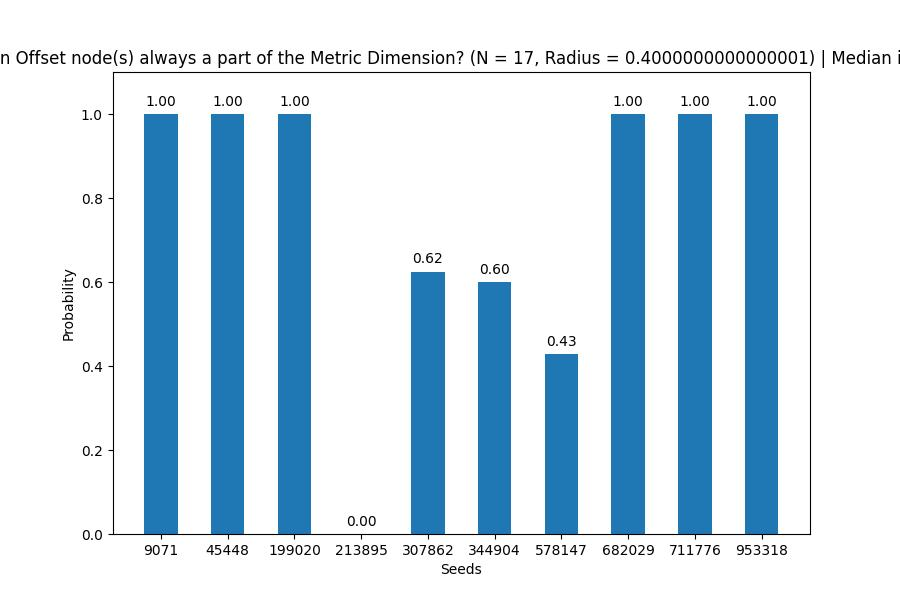
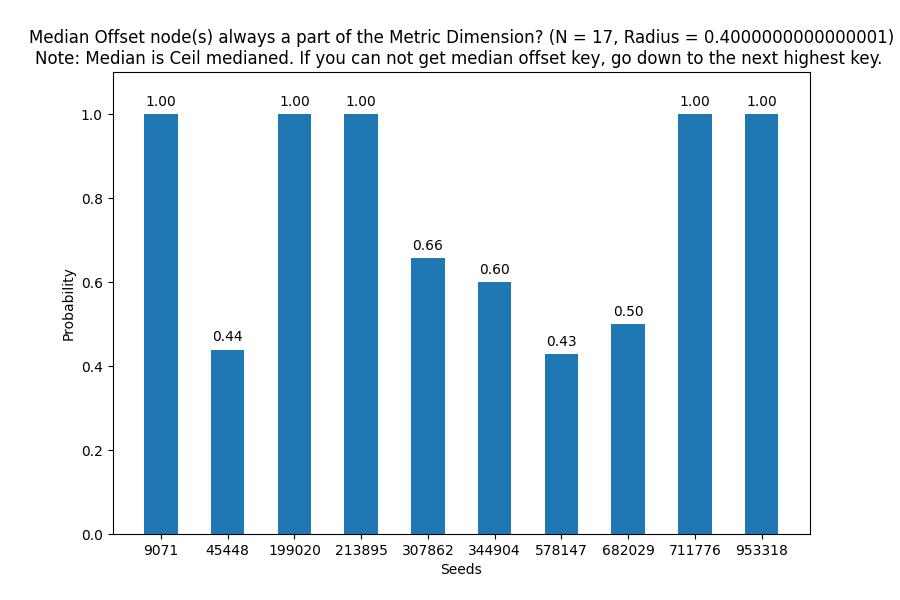
feat: Add offset types data and code.

diff --git a/experiments/offset.py b/experiments/offset.py
@@ -97,82 +97,120 @@ import multilateration as geo
 import numpy as np
 ### Create Experiment of x-axis = seeds (lowest to highest sorted) | y-axis = true/false (1/0) in Bruteforce Metric Dimension.
 ### IMPORTANT ###
-nodes = 10
-radius = 0.9
-# desired_offset = 0
-# plt.title(f'A column of the Lowest Offset always a part of the Metric Dimension? (N = {nodes}, R = {radius})')
-all_r = list(np.arange(0.02, 0.14, 0.01)) + \
-        list(np.arange(0.2, np.sqrt(2)+0.1, 0.1))
-all_seeds = list(range(3, 23))
-for n, r in zip(all_seeds, all_r):
-    nodes = n
-    radius = r
-    seed_list = sorted(decode.get_seeds(file_name='comeback_1_10.list', nodes=n))
-    probability_list = []
+# nodes = 10
+# radius = 0.9
+# # desired_offset = 0
+# # plt.title(f'A column of the Lowest Offset always a part of the Metric Dimension? (N = {nodes}, R = {radius})')
+# all_r = list(np.arange(0.02, 0.14, 0.01)) + \
+#         list(np.arange(0.2, np.sqrt(2)+0.1, 0.1))
+# all_seeds = list(range(3, 23))
+# total_offset_probability = []
+# for n, r in zip(all_seeds, all_r):
+#     nodes = n
+#     radius = r
+#     seed_list = sorted(decode.get_seeds(file_name='comeback_1_10.list', nodes=n))
+#     probability_list = []
     
-    # Round due to median being like 5.5
-    round = False
-    for seed in seed_list:
-        G = nx.random_geometric_graph(n=nodes, radius=radius, seed=int(seed))
-        r_sets = geo.bruteForce(G, numSets=-1)
-        offset_dict = get_close_to_unique_rows_offset(analysis.get_distance_matrix(G=G, display=False))
+#     # Round due to median being like 5.5
+#     round = False
+#     for seed in seed_list:
+#         G = nx.random_geometric_graph(n=nodes, radius=radius, seed=int(seed))
+#         r_sets = geo.bruteForce(G, numSets=-1)
+#         offset_dict = get_close_to_unique_rows_offset(analysis.get_distance_matrix(G=G, display=False))
         
-        ### IMPORTANT: OFFSET SETTINGS TESTING ###   
-        # print(offset_dict)
-        desired_offset_key = get_median_key(offset_dict) ## CHANGE IF GETTING DIFFERENT OFFSET
-        if (is_float(desired_offset_key) != False) or (desired_offset_key not in offset_dict.keys()):
-            round = True
-            import math
-            desired_offset_key = int(math.ceil(desired_offset_key))
-            if desired_offset_key not in offset_dict.keys():
-                for key in offset_dict.keys():
-                    if key > desired_offset_key:
-                        desired_offset_key = key
-                        break
-            offset_items = offset_dict[desired_offset_key]
-        else:
-            offset_items = offset_dict[desired_offset_key]
+#         ### IMPORTANT: OFFSET SETTINGS TESTING ###   
+#         # print(offset_dict)
+#         desired_offset_key = get_median_key(offset_dict) ## CHANGE IF GETTING DIFFERENT OFFSET
+#         if (is_float(desired_offset_key) != False) or (desired_offset_key not in offset_dict.keys()):
+#             round = True
+#             import math
+#             desired_offset_key = int(math.ceil(desired_offset_key))
+#             # # Ceil Setting ##
+#             # if desired_offset_key not in offset_dict.keys():
+#             #     for key in offset_dict.keys():
+#             #         if key > desired_offset_key:
+#             #             desired_offset_key = key
+#             #             break
+            
+#             # Floor Setting ##
+#             if desired_offset_key not in offset_dict.keys():
+#                 for key in reversed(offset_dict.keys()):
+#                     if key < desired_offset_key:
+#                         desired_offset_key = key
+#                         break
 
-        offset_found = 0
-        for set_ in r_sets:
-            for item in offset_items:
-                if item in set_:
-                    offset_found += 1
-                    break
-        probability_list.append(offset_found / len(r_sets))
+#             offset_items = offset_dict[desired_offset_key]
+#         else:
+#             offset_items = offset_dict[desired_offset_key]
 
-    ### USING BAR CHARTS ###
-    plt.figure(figsize=(9, 6))
-    plt.xlabel('Seeds')
-    plt.ylabel('Probability')
-    ### IMPORTANT: CHANGE TITLE ###
-    if round == True:
-        plt.title(f'Median Offset node(s) always a part of the Metric Dimension? (N = {nodes}, Radius = {radius}) | Median is Ceiled.')
-    else: 
-        plt.title(f'Median Offset node(s) always a part of the Metric Dimension? (N = {nodes}, Radius = {radius})')
-    plt.ylim(0, 1.1)  # Set y-axis limits to 0 and 1
-    plt.xticks(range(len(seed_list)), seed_list)  # Set x-axis labels to seed names
+#         offset_found = 0
+#         for set_ in r_sets:
+#             for item in offset_items:
+#                 if item in set_:
+#                     offset_found += 1
+#                     break
+#         probability_list.append(offset_found / len(r_sets))
+#     total_offset_probability.append(sum(probability_list))
 
-    # Create bars with probability values on top
-    bars = plt.bar(range(len(seed_list)), probability_list, width=0.5)
-    for bar, value in zip(bars, probability_list):
-        plt.text(bar.get_x() + bar.get_width() / 2, value + 0.02, f'{value:.2f}', ha='center')
-    # plt.show()
+#     ### USING BAR CHARTS ###
+#     plt.figure(figsize=(9, 6))
+#     plt.xlabel('Seeds')
+#     plt.ylabel('Probability')
+#     ### IMPORTANT: CHANGE TITLE ###
+#     mode = "Floor median"
+#     if round == True:
+#         plt.title(f'Median Offset node(s) always a part of the Metric Dimension? (N = {nodes}, Radius = {radius})\nNote: Median is {mode}ed. If you can not get median offset key, go down to the next lowest key. ')
+#     else: 
+#         plt.title(f'{mode} Offset node(s) always a part of the Metric Dimension? (N = {nodes}, Radius = {radius})')
+#     plt.ylim(0, 1.1)  # Set y-axis limits to 0 and 1
+#     plt.xticks(range(len(seed_list)), seed_list)  # Set x-axis labels to seed names
 
-    ### IMPORTANT ###
-    if round == True:
-        save_dir = "/Users/evanalba/random-geometric-graphs/images/offset/median/ceil"
-    else:
-        save_dir = "/Users/evanalba/random-geometric-graphs/images/offset/median"
+#     # Create bars with probability values on top
+#     bars = plt.bar(range(len(seed_list)), probability_list, width=0.5)
+#     for bar, value in zip(bars, probability_list):
+#         plt.text(bar.get_x() + bar.get_width() / 2, value + 0.02, f'{value:.2f}', ha='center')
+#     # plt.show()
 
-    file_name = f"{nodes}_{radius}.jpg"
-    plt.savefig(f"{save_dir}/{file_name}")
+#     ### IMPORTANT ###
+#     if round == True:
+#         save_dir = "/Users/evanalba/random-geometric-graphs/images/offset/median/floor"
+#     else:
+#         save_dir = f"/Users/evanalba/random-geometric-graphs/images/offset/median"
+
+#     file_name = f"{nodes}_{radius}.jpg"
+#     plt.savefig(f"{save_dir}/{file_name}")
+
+# with open('/Users/evanalba/random-geometric-graphs/images/offset/offset_types.txt', 'a') as file:
+#     file.write(f'\n{mode}: {str(sum(total_offset_probability))}')
 
 ### USING PRINT OUT TABLE ###
 # import pandas as pd
 # data = {'Seeds': seed_list, 'Probability': probability_list}
 # df = pd.DataFrame(data)
 # print(df)
+
+### Note: sum(probability of each graph seed) / Total 190 Graphs (Each Graph Seed == 1, Graph Family = 10) (22 - 3) * 10 = 190
+## Bar Graph Compare types of offsets: highest, lowest, ceil median, floor median. ##
+probability_list = [167.2721320958702, 183.96172041994345, 184.8501585357503, 186.61811786835509]
+plt.figure(figsize=(9, 6))
+plt.xlabel('Offset Types')
+plt.ylabel('Probability')
+plt.title('Highest vs Lowest vs Ceil median vs Floor median Offset node(s) always a part of the Metric Dimension?\n Note: 192 Graphs, 19 different N graph families.')
+plt.ylim(0, 200)  # Set y-axis limits to 0 and 200
+label_list = ['Highest', 'Lowest', 'Ceil median', 'Floor median']
+plt.xticks(range(len(label_list)),  label_list)  # Set x-axis labels to seed names
+
+# Create bars with probability values on top
+bars = plt.bar(range(len(label_list)), probability_list, width=0.5, color=['blue', 'orange', 'green', 'red'])
+for bar, value in zip(bars, probability_list):
+    plt.text(bar.get_x() + bar.get_width() / 2, value + 3, f'{value:.2f}', ha='center')
+# plt.show()
+
+save_dir = "/Users/evanalba/random-geometric-graphs/images/offset/"
+
+file_name = f"offset_types.jpg"
+plt.savefig(f"{save_dir}/{file_name}")
+
 
 # negatives, not isolated vertices pick rate?
 

diff --git a/test.py b/test.py
@@ -1,10 +1,4 @@
+my_dict = {1: 4, 2: 5, 3: 6}
 
-
-def is_float(value):
-  try:
-    float_value = float(value)
-    return float_value != int(float_value)
-  except ValueError:
-    return False
-
-print(is_float(1.1))
+for key in reversed(my_dict.keys()):
+    print(key)
